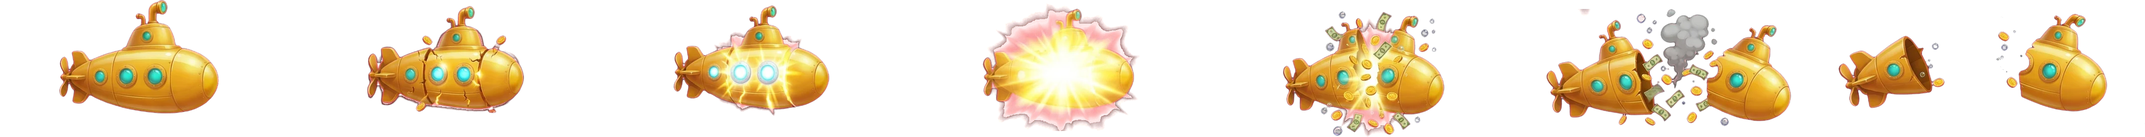
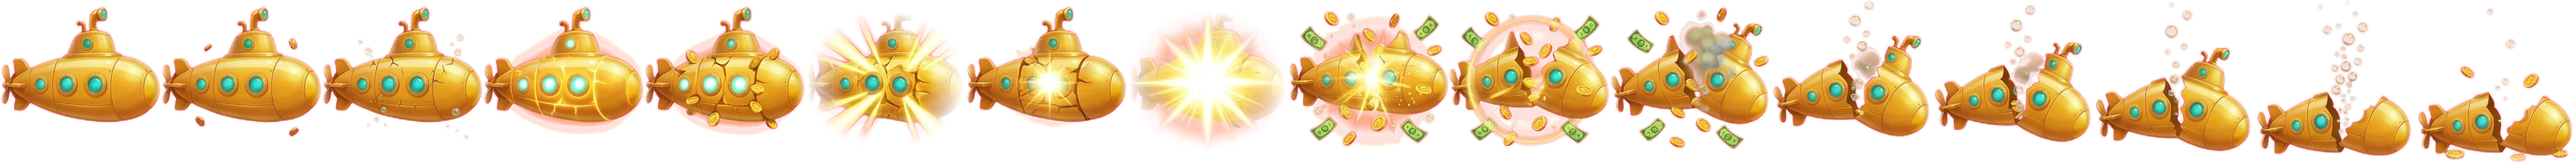
feat(crash): a 16-frame Jackpot Reef implosion
The Jackpot sub now strains, cracks, squeezes out coins and bursts with light
before the flash, then splits in a burst of coins and banknotes and its halves
sink, in 16 frames instead of 7. The flash lands at 0.32s, and the screen flash,
shockwave, banner and the crash sound's boom move with it; the sound now creaks
and cracks through the build-up. The sub fades out later so the sinking halves
are seen. The sprite URL is versioned so a cached 7-frame strip can't play with
the new timing.

diff --git a/public/js/orange/sound-jackpot.js b/public/js/orange/sound-jackpot.js
@@ -419,15 +419,23 @@
                     [58, 57, 56].forEach((n, i) => trombone(midi(n), { at: t + i * 0.3, bus, gain: 0.1, dur: 0.26 }));
                     trombone(midi(55), { at: t + 0.9, bus, gain: 0.1, dur: 0.95, vibrato: 0.02 });
                     break;
-                case 'crash': // BOOM, a crack, cymbal, coins everywhere and a slide whistle down
-                    boom({ at: t, bus, gain: 0.32 });
-                    kick({ at: t, bus, gain: 0.45 });
-                    cymbal({ at: t, bus, gain: 0.1 });
-                    hiss({ at: t, bus, gain: 0.18, dur: 0.15, freq: 3000 });
-                    for (let i = 0; i < 22; i++) coin({ at: t + 0.05 + Math.random() * 0.9, bus, gain: 0.025 + Math.random() * 0.035 });
-                    slide(1400, 180, { at: t + 0.15, bus, gain: 0.06, dur: 1.1 });
-                    for (let i = 0; i < 6; i++) bubble({ at: t + 0.4 + i * 0.12, bus, gain: 0.04 });
+                case 'crash': { // the hull strains and cracks, coins pop out, then BOOM, cymbal, coins everywhere, a slide whistle down
+                    const b = t + 0.32; // the implosion sprite's flash (the page's --boom-at)
+                    riser({ at: t, bus, gain: 0.05, dur: 0.32 });
+                    tom(95, { at: t, bus, gain: 0.14 });
+                    tom(70, { at: t + 0.14, bus, gain: 0.14 });
+                    hiss({ at: t + 0.09, bus, gain: 0.07, dur: 0.04, freq: 5000 });
+                    hiss({ at: t + 0.16, bus, gain: 0.09, dur: 0.05, freq: 4200 });
+                    for (let i = 0; i < 4; i++) coin({ at: t + 0.19 + i * 0.03, bus, gain: 0.03 });
+                    boom({ at: b, bus, gain: 0.32 });
+                    kick({ at: b, bus, gain: 0.45 });
+                    cymbal({ at: b, bus, gain: 0.1 });
+                    hiss({ at: b, bus, gain: 0.18, dur: 0.15, freq: 3000 });
+                    for (let i = 0; i < 22; i++) coin({ at: b + 0.05 + Math.random() * 0.9, bus, gain: 0.025 + Math.random() * 0.035 });
+                    slide(1400, 180, { at: b + 0.15, bus, gain: 0.06, dur: 1.1 });
+                    for (let i = 0; i < 6; i++) bubble({ at: b + 0.4 + i * 0.12, bus, gain: 0.04 });
                     break;
+                }
             }
         }
 

diff --git a/resources/views/crash.blade.php b/resources/views/crash.blade.php
@@ -110,7 +110,7 @@
             if (valid.indexOf(t) === -1) t = valid[0];
             document.documentElement.setAttribute('data-theme', t);
             // The skin's implosion sprite must be decoded before the first crash, not fetched during it.
-            var sprites = @json(['burton' => asset('images/sub-explosion.webp'), 'jackpot' => asset('images/sub-explosion-jackpot.webp')]);
+            var sprites = @json(['burton' => asset('images/sub-explosion.webp'), 'jackpot' => asset('images/sub-explosion-jackpot.webp').'?v='.filemtime(public_path('images/sub-explosion-jackpot.webp'))]);
             if (sprites[t]) {
                 var preload = document.createElement('link');
                 preload.rel = 'preload';
@@ -2145,8 +2145,11 @@
            wait for the burst frame (--boom-at) so the sub visibly cracks first.
            `translate` (not transform) so the embed offset on .sub-wrap is kept. */
         :root { --boom-at: 0s; }
-        :root:is([data-theme="burton"], [data-theme="jackpot"]) { --boom-at: 0.17s; }
+        :root[data-theme="burton"] { --boom-at: 0.17s; }
+        :root[data-theme="jackpot"] { --boom-at: 0.32s; }
         .crashed .sub-wrap { animation: sub-collapse 1.7s ease-in forwards; }
+        /* Jackpot's sprite runs longer (its halves sink): fade the sub out later. */
+        :root[data-theme="jackpot"] .crashed .sub-wrap { animation-duration: 2.2s; }
         @keyframes sub-collapse {
             0%, 55% { translate: 0 0; opacity: 1; }
             100%    { translate: 0 6vh; opacity: 0; }
@@ -2158,10 +2161,12 @@
             background: url("{{ asset('images/sub-explosion.webp') }}") 0 0 / 700% 100% no-repeat;
             opacity: 0;
         }
-        /* Jackpot's sprite: same 7-frame timing, a wider cell (the halves fly apart). */
+        /* Jackpot's sprite: 16 frames (strain, cracks, coins squeezed out, beams, the
+           flash, the halves bursting apart in coins and bills, then sinking). */
         :root[data-theme="jackpot"] .sub-boom span {
-            left: -25.11%; top: -24.95%; width: 160.18%; height: 132.13%;
-            background-image: url("{{ asset('images/sub-explosion-jackpot.webp') }}");
+            left: 5.34%; top: -33.13%; width: 84.13%; height: 156.59%;
+            background-image: url("{{ asset('images/sub-explosion-jackpot.webp') }}?v={{ filemtime(public_path('images/sub-explosion-jackpot.webp')) }}");
+            background-size: 1600% 100%;
         }
         :root:is([data-theme="burton"], [data-theme="jackpot"]) .sub-boom { display: block; }
         :root[data-theme="burton"] .crashed .sub-gothic,
@@ -2175,6 +2180,26 @@
             28%       { background-position-x: 66.667%; }
             44%       { background-position-x: 83.333%; }
             62%, 100% { background-position-x: 100%; }
+        }
+        /* Frame n (0-15) at n/15 of the strip; the flash (frame 8) at 0.32s = --boom-at. */
+        :root[data-theme="jackpot"] .crashed .sub-boom span { animation: sub-boom-jackpot 1.75s step-end forwards; }
+        @keyframes sub-boom-jackpot {
+            0%        { background-position-x: 0%; }
+            2.29%     { background-position-x: 6.667%; }
+            5.14%     { background-position-x: 13.333%; }
+            8%        { background-position-x: 20%; }
+            10.86%    { background-position-x: 26.667%; }
+            13.71%    { background-position-x: 33.333%; }
+            16%       { background-position-x: 40%; }
+            18.29%    { background-position-x: 46.667%; }   /* the flash: 0.32s */
+            24%       { background-position-x: 53.333%; }
+            29.71%    { background-position-x: 60%; }
+            36.57%    { background-position-x: 66.667%; }
+            44.57%    { background-position-x: 73.333%; }
+            53.71%    { background-position-x: 80%; }
+            62.86%    { background-position-x: 86.667%; }
+            73.14%    { background-position-x: 93.333%; }
+            83.43%, 100% { background-position-x: 100%; }
         }
 
         /* ---------- Log ---------- */
